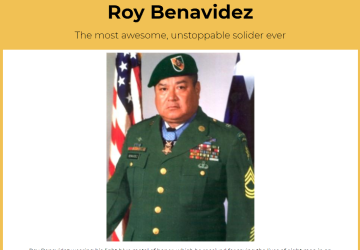
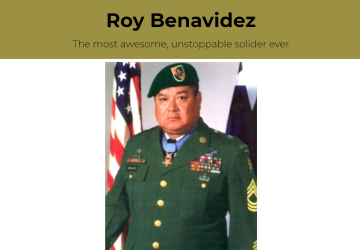
Add files via upload

diff --git a/style.css b/style.css
@@ -16,33 +16,33 @@ body {
     align-items: center;
     gap: 30px;
     height: 3rem;
-    font-size: 1.8em;
-    font-weight: 700;
+    font-size: 1.6em;
+    font-weight: 400;
     padding-right: 20px;
     width: 100%;
     position: fixed;
     top: 0px;
     right: 0px;
     z-index: 1;
-    background-color: white;
+    background-color: #241E0E;
 }
 #navbar a {
     text-decoration: none;
-    color: black;
+    color: white;
 }
 #navbar a:hover {
-    border-bottom: 3px black solid;
+    border-bottom: 3px white solid;
 }
 
 /* Welcome Section************************ */
 #welcome-section {
     height: 100vh;
-    color: black;
+    color: #241E0E;
     display: grid;
     place-items: center;
-    font-size: 2rem;
+    font-size: 3rem;
     font-weight: 900;
-    background-color: white;
+    background-color: #9C9143;
     text-align: center;
     z-index: -1;
 }
@@ -55,7 +55,7 @@ body {
 
 /* Projects Section************************ */
 #projects {
-    background-color: rgb(190, 192, 194);
+    background-color: #3E65F0;
     padding: 3rem;
     /* background-image: url(smoke.jpg);
     background-size: cover; */
@@ -63,8 +63,8 @@ body {
 .project-title {
     padding-top: 0.8rem;
     padding-bottom: 0.8rem; 
-    background: whitesmoke;
-    color: black;
+    background: #241E0E;
+    color: #FFF354;
     font-size: 1.8rem;
     font-style: italic;
     text-align: center;
@@ -72,7 +72,7 @@ body {
 .projectCard {
     height: 19.5rem;
     width: 22.5rem;
-    background-color: #cc6600 ;
+    background-color: #FFE754 ;
     display: grid;
     align-content: space-between;
 }
@@ -82,7 +82,7 @@ body {
     justify-content: space-evenly;
     gap: 2rem;
     justify-content: center;
-    padding: 3rem;
+    padding: 3rem 3rem 0 3rem;
 }
 #projects a {
     text-decoration: none;
@@ -102,7 +102,7 @@ body {
     width: 22.5rem;
     font-size: 1.5rem;
     font-weight: bold;
-    background-color: #cc6600 ;
+    background-color: #FFE754 ;
     padding-top: 8.5rem;
     padding-left: 5rem;
     min-width: 360px;
@@ -122,8 +122,10 @@ body {
     align-items: center;
     text-align: center;
     width: 100%;
-    height: 14rem;
-    padding: 0 2rem;
+    height: 18rem;
+    padding: 0 2rem 1rem 2rem;
+    color: #FFE754;
+    background: #241E0E;
 }
 .contact-section-header > h2 {
     font-size: 3rem;
@@ -133,9 +135,9 @@ body {
 }
 .contact-links a {
     text-decoration: none;
-    color: black;
-    padding: 2rem 0.5rem;
-    font-size: 1.1rem;
+    color: white;
+    padding: 2rem 0.8rem;
+    font-size: 2rem;
 }
 
 /* **************************************** */
@@ -146,6 +148,10 @@ body {
         font-size: 1.4em;
         font-weight: 700;
         padding-right: 15px;
+    }
+    .contact-links a {
+        padding: 2rem 1rem;
+        font-size: 1.5rem;
     }
 }
 /*
